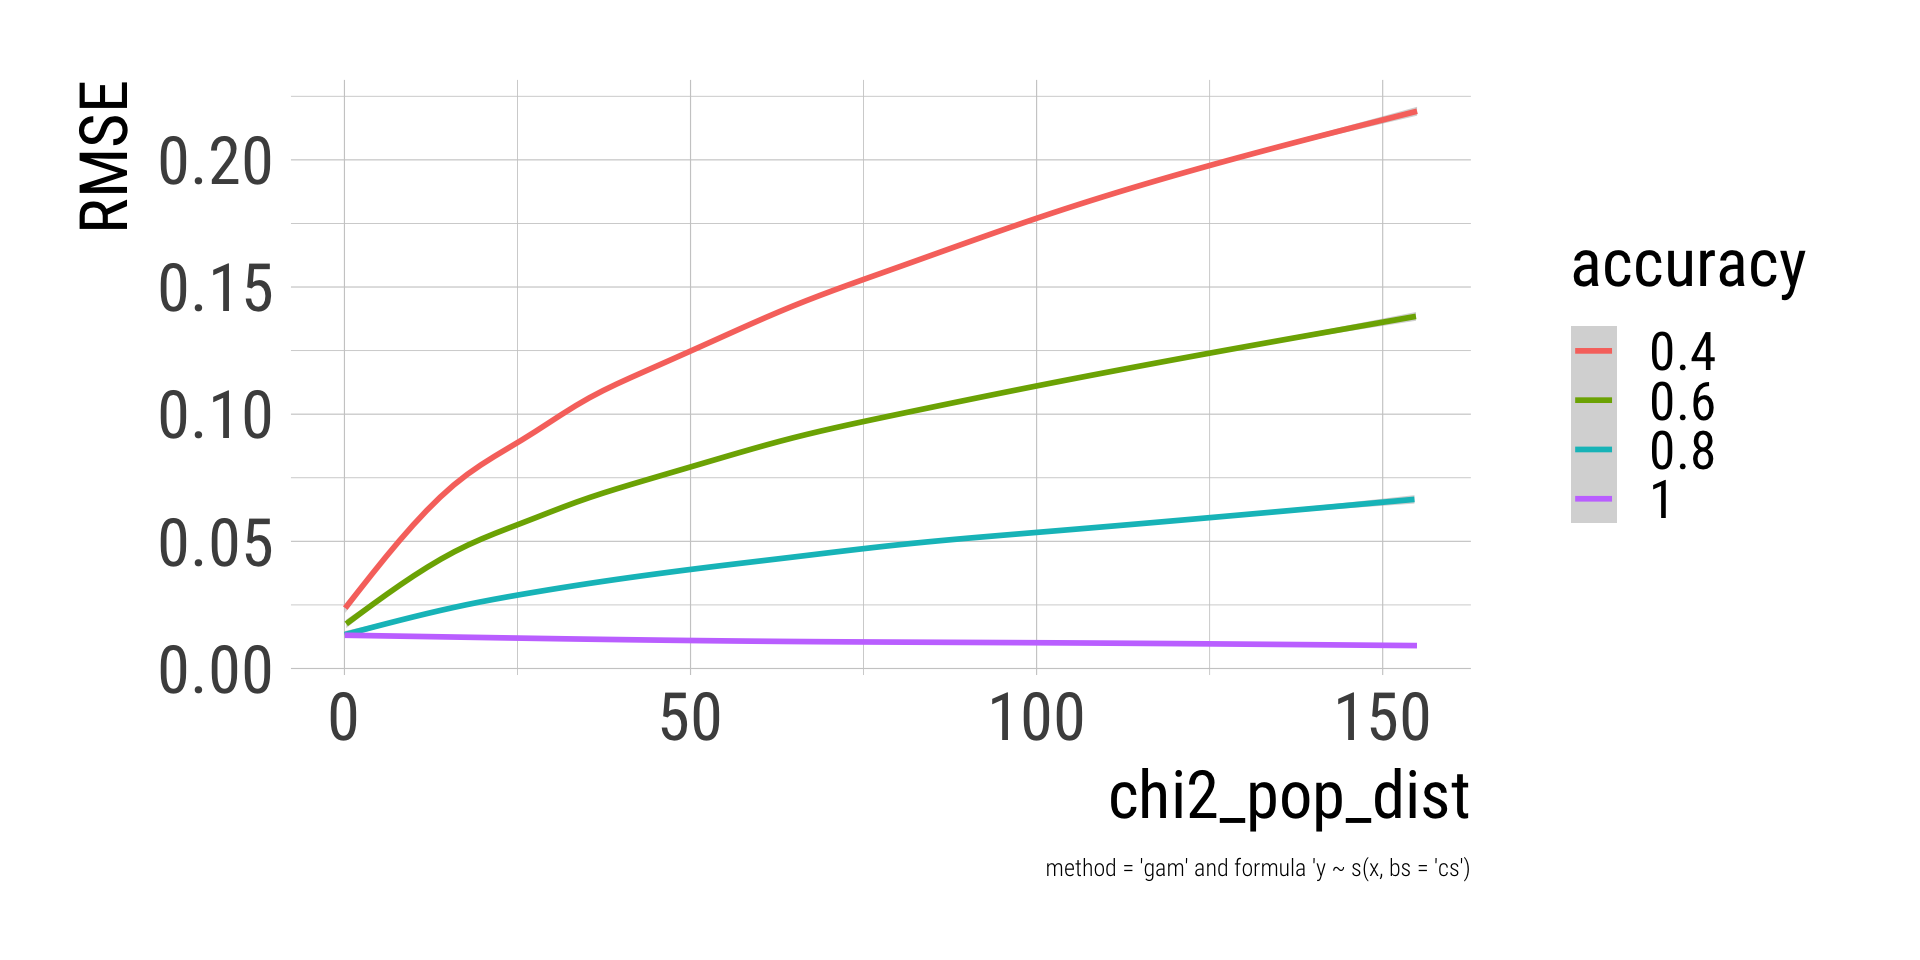
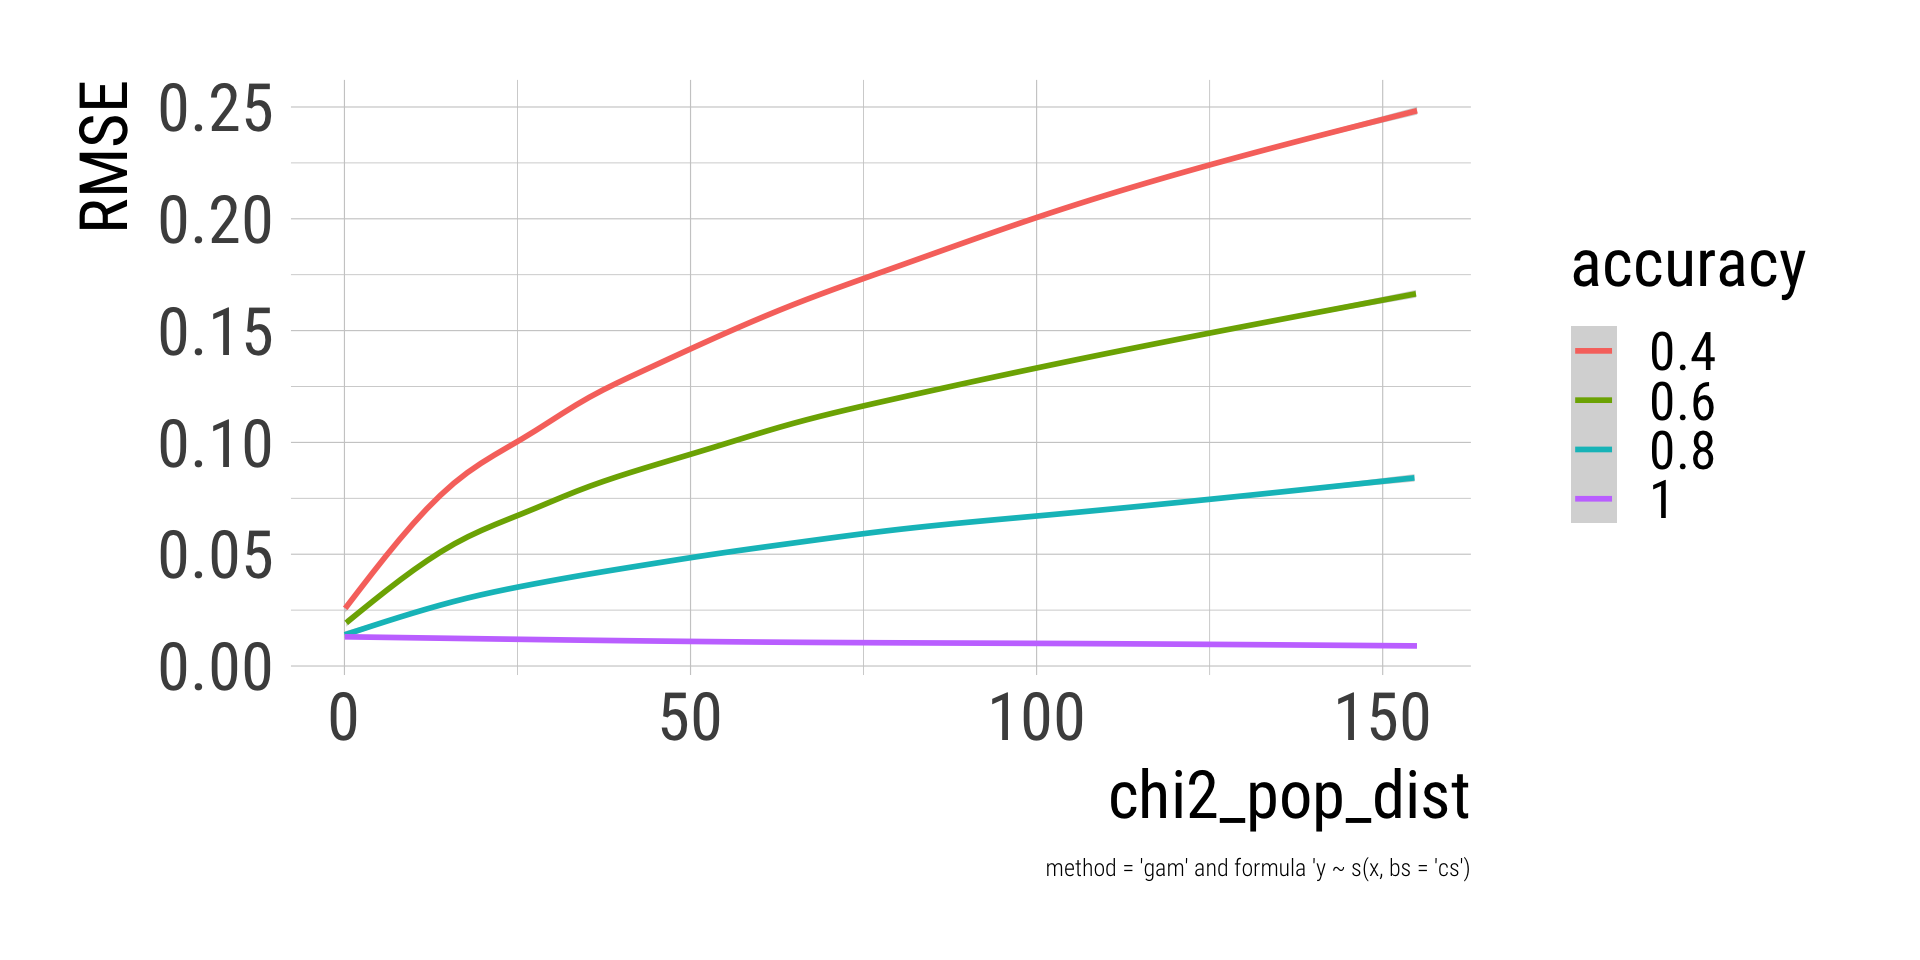
k - 1

diff --git a/docs/qmd/05_misclass_bias.html b/docs/qmd/05_misclass_bias.html
@@ -531,17 +531,17 @@
 <div class="cell">
 <div class="sourceCode cell-code" id="cb5"><pre class="sourceCode r code-with-copy"><code class="sourceCode r"><span id="cb5-1"><a href="#cb5-1" aria-hidden="true" tabindex="-1"></a><span class="co"># Simple: Equal error rates, equal difficulties, one process</span></span>
 <span id="cb5-2"><a href="#cb5-2" aria-hidden="true" tabindex="-1"></a>accuracy <span class="ot">=</span> <span class="fl">0.8</span></span>
-<span id="cb5-3"><a href="#cb5-3" aria-hidden="true" tabindex="-1"></a>equal_error <span class="ot">=</span> (<span class="dv">1</span> <span class="sc">-</span> accuracy) <span class="sc">/</span> k</span>
+<span id="cb5-3"><a href="#cb5-3" aria-hidden="true" tabindex="-1"></a>equal_error <span class="ot">=</span> (<span class="dv">1</span> <span class="sc">-</span> accuracy) <span class="sc">/</span> (k <span class="sc">-</span> <span class="dv">1</span>)</span>
 <span id="cb5-4"><a href="#cb5-4" aria-hidden="true" tabindex="-1"></a>misclass_prop <span class="ot">=</span> <span class="fu">matrix</span>(equal_error, <span class="at">nrow =</span> k, <span class="at">ncol =</span> k, </span>
 <span id="cb5-5"><a href="#cb5-5" aria-hidden="true" tabindex="-1"></a>                       <span class="at">dimnames =</span> <span class="fu">list</span>(categories, categories))</span>
 <span id="cb5-6"><a href="#cb5-6" aria-hidden="true" tabindex="-1"></a><span class="fu">diag</span>(misclass_prop) <span class="ot">=</span> accuracy</span>
 <span id="cb5-7"><a href="#cb5-7" aria-hidden="true" tabindex="-1"></a>misclass_prop</span></code><button title="Copy to Clipboard" class="code-copy-button"><i class="bi"></i></button></pre></div>
 <div class="cell-output cell-output-stdout">
-<pre><code>     A    B    C    D
-A 0.80 0.05 0.05 0.05
-B 0.05 0.80 0.05 0.05
-C 0.05 0.05 0.80 0.05
-D 0.05 0.05 0.05 0.80</code></pre>
+<pre><code>           A          B          C          D
+A 0.80000000 0.06666667 0.06666667 0.06666667
+B 0.06666667 0.80000000 0.06666667 0.06666667
+C 0.06666667 0.06666667 0.80000000 0.06666667
+D 0.06666667 0.06666667 0.06666667 0.80000000</code></pre>
 </div>
 </div>
 </section>
@@ -563,13 +563,13 @@ D 0.05 0.05 0.05 0.80</code></pre>
 <span id="cb7-9"><a href="#cb7-9" aria-hidden="true" tabindex="-1"></a>    <span class="fu">prop.table</span>()</span>
 <span id="cb7-10"><a href="#cb7-10" aria-hidden="true" tabindex="-1"></a><span class="fu">toc</span>()</span></code><button title="Copy to Clipboard" class="code-copy-button"><i class="bi"></i></button></pre></div>
 <div class="cell-output cell-output-stdout">
-<pre><code>0.022 sec elapsed</code></pre>
+<pre><code>0.017 sec elapsed</code></pre>
 </div>
 <div class="sourceCode cell-code" id="cb9"><pre class="sourceCode r code-with-copy"><code class="sourceCode r"><span id="cb9-1"><a href="#cb9-1" aria-hidden="true" tabindex="-1"></a>freq_obs</span></code><button title="Copy to Clipboard" class="code-copy-button"><i class="bi"></i></button></pre></div>
 <div class="cell-output cell-output-stdout">
 <pre><code>.
     A     B     C     D 
-0.502 0.309 0.114 0.075 </code></pre>
+0.483 0.293 0.138 0.086 </code></pre>
 </div>
 </div>
 </section>
@@ -592,13 +592,13 @@ D 0.05 0.05 0.05 0.80</code></pre>
 <span id="cb11-10"><a href="#cb11-10" aria-hidden="true" tabindex="-1"></a>    <span class="fu">prop.table</span>()</span>
 <span id="cb11-11"><a href="#cb11-11" aria-hidden="true" tabindex="-1"></a><span class="fu">toc</span>()</span></code><button title="Copy to Clipboard" class="code-copy-button"><i class="bi"></i></button></pre></div>
 <div class="cell-output cell-output-stdout">
-<pre><code>0.003 sec elapsed</code></pre>
+<pre><code>0.004 sec elapsed</code></pre>
 </div>
 <div class="sourceCode cell-code" id="cb13"><pre class="sourceCode r code-with-copy"><code class="sourceCode r"><span id="cb13-1"><a href="#cb13-1" aria-hidden="true" tabindex="-1"></a>freq_obs</span></code><button title="Copy to Clipboard" class="code-copy-button"><i class="bi"></i></button></pre></div>
 <div class="cell-output cell-output-stdout">
 <pre><code>.
     A     B     C     D 
-0.517 0.299 0.112 0.072 </code></pre>
+0.496 0.299 0.128 0.077 </code></pre>
 </div>
 </div>
 </section>
@@ -611,7 +611,7 @@ D 0.05 0.05 0.05 0.80</code></pre>
 <div class="cell">
 <div class="sourceCode cell-code" id="cb15"><pre class="sourceCode r code-with-copy"><code class="sourceCode r"><span id="cb15-1"><a href="#cb15-1" aria-hidden="true" tabindex="-1"></a><span class="fu">sqrt</span>(<span class="fu">mean</span>((pop_dist <span class="sc">-</span> freq_obs)<span class="sc">^</span><span class="dv">2</span>)) <span class="sc">%&gt;%</span> <span class="fu">round</span>(<span class="dv">2</span>)</span></code><button title="Copy to Clipboard" class="code-copy-button"><i class="bi"></i></button></pre></div>
 <div class="cell-output cell-output-stdout">
-<pre><code>[1] 0.02</code></pre>
+<pre><code>[1] 0.03</code></pre>
 </div>
 </div>
 <ul>
@@ -620,7 +620,7 @@ D 0.05 0.05 0.05 0.80</code></pre>
 <div class="cell">
 <div class="sourceCode cell-code" id="cb17"><pre class="sourceCode r code-with-copy"><code class="sourceCode r"><span id="cb17-1"><a href="#cb17-1" aria-hidden="true" tabindex="-1"></a><span class="fu">sqrt</span>(<span class="fu">mean</span>((freq_true <span class="sc">-</span> freq_obs)<span class="sc">^</span><span class="dv">2</span>)) <span class="sc">%&gt;%</span> <span class="fu">round</span>(<span class="dv">2</span>)</span></code><button title="Copy to Clipboard" class="code-copy-button"><i class="bi"></i></button></pre></div>
 <div class="cell-output cell-output-stdout">
-<pre><code>[1] 0.03</code></pre>
+<pre><code>[1] 0.04</code></pre>
 </div>
 </div>
 <ul>
@@ -655,7 +655,7 @@ D 0.05 0.05 0.05 0.80</code></pre>
 <span id="cb21-17"><a href="#cb21-17" aria-hidden="true" tabindex="-1"></a>    <span class="fu">prop.table</span>()</span>
 <span id="cb21-18"><a href="#cb21-18" aria-hidden="true" tabindex="-1"></a>  </span>
 <span id="cb21-19"><a href="#cb21-19" aria-hidden="true" tabindex="-1"></a>  <span class="co"># Misclassification</span></span>
-<span id="cb21-20"><a href="#cb21-20" aria-hidden="true" tabindex="-1"></a>  equal_error <span class="ot">=</span> (<span class="dv">1</span> <span class="sc">-</span> accuracy) <span class="sc">/</span> k</span>
+<span id="cb21-20"><a href="#cb21-20" aria-hidden="true" tabindex="-1"></a>  equal_error <span class="ot">=</span> (<span class="dv">1</span> <span class="sc">-</span> accuracy) <span class="sc">/</span> (k <span class="sc">-</span> <span class="dv">1</span>)</span>
 <span id="cb21-21"><a href="#cb21-21" aria-hidden="true" tabindex="-1"></a>  misclass_prop <span class="ot">=</span> <span class="fu">matrix</span>(equal_error, <span class="at">nrow =</span> k, <span class="at">ncol =</span> k,</span>
 <span id="cb21-22"><a href="#cb21-22" aria-hidden="true" tabindex="-1"></a>                         <span class="at">dimnames =</span> <span class="fu">list</span>(categories, categories))</span>
 <span id="cb21-23"><a href="#cb21-23" aria-hidden="true" tabindex="-1"></a>  <span class="fu">diag</span>(misclass_prop) <span class="ot">=</span> accuracy</span>
@@ -726,7 +726,7 @@ D 0.05 0.05 0.05 0.80</code></pre>
 <span id="cb24-8"><a href="#cb24-8" aria-hidden="true" tabindex="-1"></a>                                 <span class="at">n =</span> n, <span class="at">accuracy =</span> accuracy)))</span>
 <span id="cb24-9"><a href="#cb24-9" aria-hidden="true" tabindex="-1"></a><span class="fu">toc</span>()</span></code><button title="Copy to Clipboard" class="code-copy-button"><i class="bi"></i></button></pre></div>
 <div class="cell-output cell-output-stdout">
-<pre><code>5.386 sec elapsed</code></pre>
+<pre><code>5.302 sec elapsed</code></pre>
 </div>
 </div>
 </section>
@@ -855,7 +855,7 @@ D 0.05 0.05 0.05 0.80</code></pre>
 <span id="cb33-4"><a href="#cb33-4" aria-hidden="true" tabindex="-1"></a>  <span class="fu">mutate</span>(<span class="at">res =</span> <span class="fu">list</span>(<span class="fu">sim_misclass</span>(<span class="at">pop_dist =</span> pop_dist, <span class="at">n =</span> n, <span class="at">accuracy =</span> accuracy)))</span>
 <span id="cb33-5"><a href="#cb33-5" aria-hidden="true" tabindex="-1"></a><span class="fu">toc</span>()</span></code><button title="Copy to Clipboard" class="code-copy-button"><i class="bi"></i></button></pre></div>
 <div class="cell-output cell-output-stdout">
-<pre><code>14.836 sec elapsed</code></pre>
+<pre><code>15.232 sec elapsed</code></pre>
 </div>
 </div>
 </section>
@@ -1125,17 +1125,17 @@ sample_true 31 32 33 34 35 42
 <div class="cell">
 <div class="sourceCode cell-code" id="cb44"><pre class="sourceCode r code-with-copy"><code class="sourceCode r"><span id="cb44-1"><a href="#cb44-1" aria-hidden="true" tabindex="-1"></a><span class="co"># Simple: Equal error rates, equal difficulties, one process</span></span>
 <span id="cb44-2"><a href="#cb44-2" aria-hidden="true" tabindex="-1"></a>accuracy <span class="ot">=</span> <span class="fl">0.8</span></span>
-<span id="cb44-3"><a href="#cb44-3" aria-hidden="true" tabindex="-1"></a>equal_error <span class="ot">=</span> (<span class="dv">1</span> <span class="sc">-</span> accuracy) <span class="sc">/</span> k</span>
+<span id="cb44-3"><a href="#cb44-3" aria-hidden="true" tabindex="-1"></a>equal_error <span class="ot">=</span> (<span class="dv">1</span> <span class="sc">-</span> accuracy) <span class="sc">/</span> (k <span class="sc">-</span> <span class="dv">1</span>)</span>
 <span id="cb44-4"><a href="#cb44-4" aria-hidden="true" tabindex="-1"></a>misclass_prop <span class="ot">=</span> <span class="fu">matrix</span>(equal_error, <span class="at">nrow =</span> k, <span class="at">ncol =</span> k, </span>
 <span id="cb44-5"><a href="#cb44-5" aria-hidden="true" tabindex="-1"></a>                       <span class="at">dimnames =</span> <span class="fu">list</span>(categories, categories))</span>
 <span id="cb44-6"><a href="#cb44-6" aria-hidden="true" tabindex="-1"></a><span class="fu">diag</span>(misclass_prop) <span class="ot">=</span> accuracy</span>
 <span id="cb44-7"><a href="#cb44-7" aria-hidden="true" tabindex="-1"></a>misclass_prop</span></code><button title="Copy to Clipboard" class="code-copy-button"><i class="bi"></i></button></pre></div>
 <div class="cell-output cell-output-stdout">
-<pre><code>     A    B    C    D
-A 0.80 0.05 0.05 0.05
-B 0.05 0.80 0.05 0.05
-C 0.05 0.05 0.80 0.05
-D 0.05 0.05 0.05 0.80</code></pre>
+<pre><code>           A          B          C          D
+A 0.80000000 0.06666667 0.06666667 0.06666667
+B 0.06666667 0.80000000 0.06666667 0.06666667
+C 0.06666667 0.06666667 0.80000000 0.06666667
+D 0.06666667 0.06666667 0.06666667 0.80000000</code></pre>
 </div>
 </div>
 </section>
@@ -1155,13 +1155,13 @@ D 0.05 0.05 0.05 0.80</code></pre>
 <span id="cb46-10"><a href="#cb46-10" aria-hidden="true" tabindex="-1"></a>    <span class="fu">prop.table</span>()</span>
 <span id="cb46-11"><a href="#cb46-11" aria-hidden="true" tabindex="-1"></a><span class="fu">toc</span>()</span></code><button title="Copy to Clipboard" class="code-copy-button"><i class="bi"></i></button></pre></div>
 <div class="cell-output cell-output-stdout">
-<pre><code>0.003 sec elapsed</code></pre>
+<pre><code>0.004 sec elapsed</code></pre>
 </div>
 <div class="sourceCode cell-code" id="cb48"><pre class="sourceCode r code-with-copy"><code class="sourceCode r"><span id="cb48-1"><a href="#cb48-1" aria-hidden="true" tabindex="-1"></a>freq_obs</span></code><button title="Copy to Clipboard" class="code-copy-button"><i class="bi"></i></button></pre></div>
 <div class="cell-output cell-output-stdout">
 <pre><code>.
     A     B     C     D 
-0.491 0.280 0.134 0.095 </code></pre>
+0.476 0.287 0.142 0.095 </code></pre>
 </div>
 </div>
 </section>
@@ -1233,7 +1233,7 @@ D 0.05 0.05 0.05 0.80</code></pre>
 <span id="cb55-22"><a href="#cb55-22" aria-hidden="true" tabindex="-1"></a>    <span class="fu">unlist</span>(<span class="at">use.names =</span> <span class="cn">FALSE</span>)</span>
 <span id="cb55-23"><a href="#cb55-23" aria-hidden="true" tabindex="-1"></a></span>
 <span id="cb55-24"><a href="#cb55-24" aria-hidden="true" tabindex="-1"></a>  <span class="co"># Misclassification probabilities</span></span>
-<span id="cb55-25"><a href="#cb55-25" aria-hidden="true" tabindex="-1"></a>  equal_error <span class="ot">=</span> (<span class="dv">1</span> <span class="sc">-</span> accuracy) <span class="sc">/</span> k</span>
+<span id="cb55-25"><a href="#cb55-25" aria-hidden="true" tabindex="-1"></a>  equal_error <span class="ot">=</span> (<span class="dv">1</span> <span class="sc">-</span> accuracy) <span class="sc">/</span> (k <span class="sc">-</span> <span class="dv">1</span>)</span>
 <span id="cb55-26"><a href="#cb55-26" aria-hidden="true" tabindex="-1"></a>  misclass_prop <span class="ot">=</span> <span class="fu">matrix</span>(equal_error, <span class="at">nrow =</span> k, <span class="at">ncol =</span> k, </span>
 <span id="cb55-27"><a href="#cb55-27" aria-hidden="true" tabindex="-1"></a>                         <span class="at">dimnames =</span> <span class="fu">list</span>(categories, categories))</span>
 <span id="cb55-28"><a href="#cb55-28" aria-hidden="true" tabindex="-1"></a>  <span class="fu">diag</span>(misclass_prop) <span class="ot">=</span> accuracy</span>
@@ -1321,7 +1321,7 @@ D 0.05 0.05 0.05 0.80</code></pre>
 <span id="cb58-10"><a href="#cb58-10" aria-hidden="true" tabindex="-1"></a>    <span class="at">n =</span> n, <span class="at">accuracy =</span> accuracy)))</span>
 <span id="cb58-11"><a href="#cb58-11" aria-hidden="true" tabindex="-1"></a><span class="fu">toc</span>()</span></code><button title="Copy to Clipboard" class="code-copy-button"><i class="bi"></i></button></pre></div>
 <div class="cell-output cell-output-stdout">
-<pre><code>13.941 sec elapsed</code></pre>
+<pre><code>13.353 sec elapsed</code></pre>
 </div>
 </div>
 </section>
